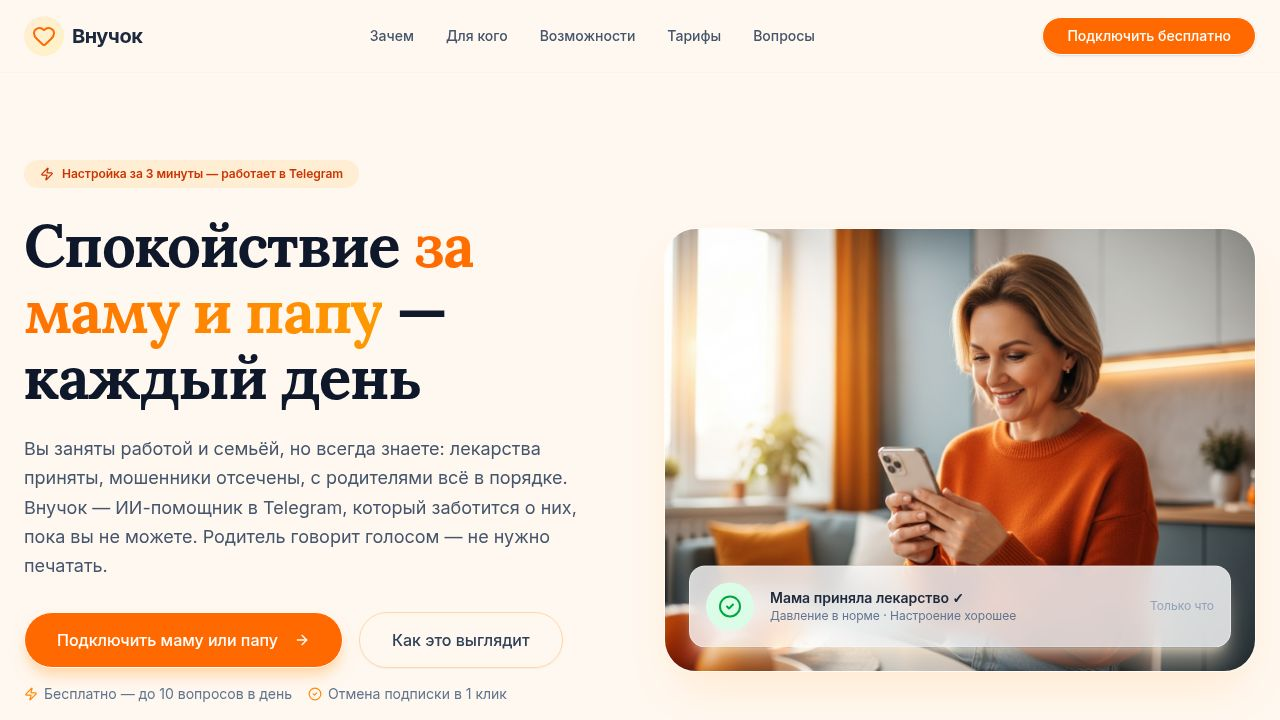
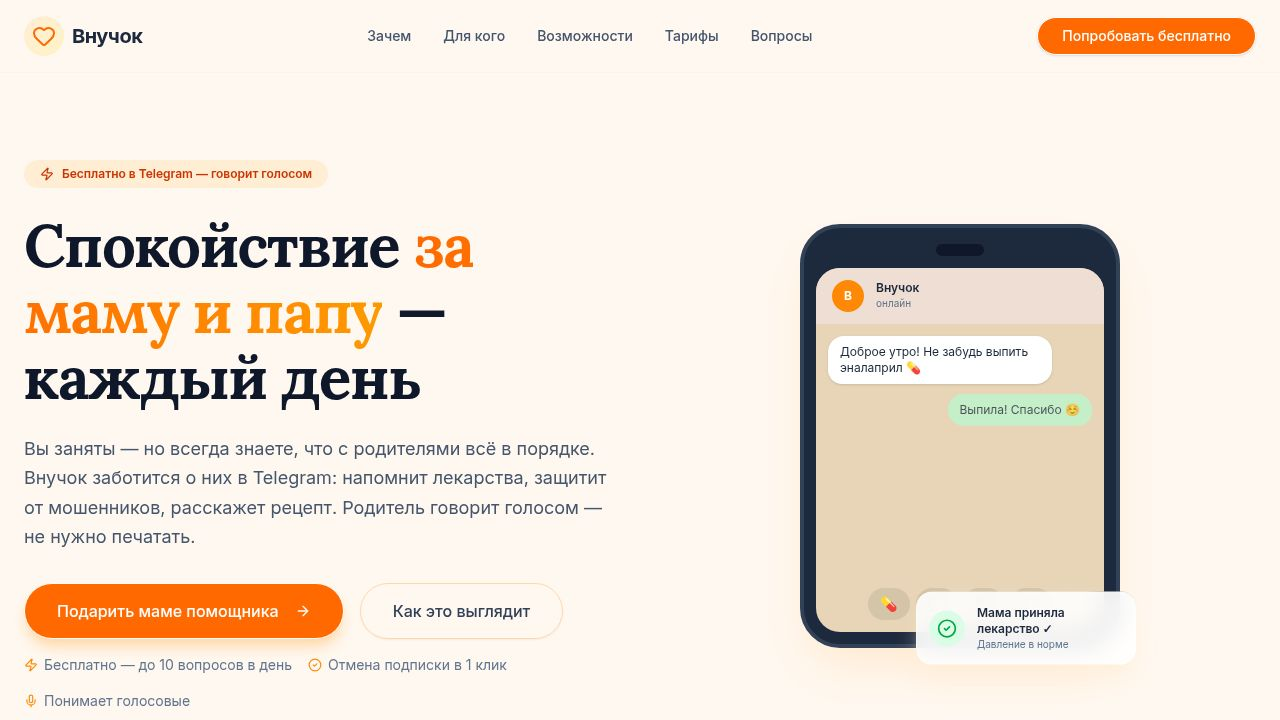
Add animated chat messages and social proof section to the landing page
Update client/src/pages/LandingC.tsx to include a staggered animation for chat messages and a new social proof section with family and message counts.

Replit-Commit-Author: Agent
Replit-Commit-Session-Id: 0a2be000-5f59-453b-a31a-cd9382a1d0eb
Replit-Commit-Checkpoint-Type: full_checkpoint
Replit-Commit-Event-Id: 0ae95760-b883-4407-8fa6-3ca411140092
Replit-Commit-Screenshot-Url: https://storage.googleapis.com/screenshot-production-us-central1/8693c438-d383-41e3-9a22-df06b7f15c39/0a2be000-5f59-453b-a31a-cd9382a1d0eb/dirBPPq
Replit-Helium-Checkpoint-Created: true

diff --git a/client/src/pages/LandingC.tsx b/client/src/pages/LandingC.tsx
@@ -172,31 +172,19 @@ export default function LandingC() {
                       </div>
 
                       <div className="space-y-2 p-3 min-h-[200px]">
-                        <div className="flex justify-start">
-                          <div className="bg-white rounded-2xl rounded-bl-md px-3 py-2 text-xs text-slate-800 max-w-[85%] shadow-sm">
-                            Доброе утро! Не забудь выпить эналаприл 💊
+                        {[
+                          { side: "left", text: "Доброе утро! Не забудь выпить эналаприл 💊", delay: "0ms" },
+                          { side: "right", text: "Выпила! Спасибо ☺", delay: "600ms" },
+                          { side: "left", text: "Умница! А давление мерила сегодня?", delay: "1200ms" },
+                          { side: "right", text: "🎤 «Сто двадцать на восемьдесят»", delay: "1800ms" },
+                          { side: "left", text: "120/80 — идеально! Записала ✓", delay: "2400ms" },
+                        ].map((msg, i) => (
+                          <div key={i} className={`flex ${msg.side === "right" ? "justify-end" : "justify-start"} animate-in fade-in slide-in-from-bottom-2 duration-500`} style={{ animationDelay: msg.delay, animationFillMode: "backwards" }}>
+                            <div className={`rounded-2xl px-3 py-2 text-xs text-slate-800 max-w-[85%] ${msg.side === "left" ? "bg-white rounded-bl-md shadow-sm" : "bg-green-200 rounded-br-md"}`}>
+                              {msg.text}
+                            </div>
                           </div>
-                        </div>
-                        <div className="flex justify-end">
-                          <div className="bg-green-200 rounded-2xl rounded-br-md px-3 py-2 text-xs text-slate-800 max-w-[85%]">
-                            Выпила! Спасибо ☺
-                          </div>
-                        </div>
-                        <div className="flex justify-start">
-                          <div className="bg-white rounded-2xl rounded-bl-md px-3 py-2 text-xs text-slate-800 max-w-[85%] shadow-sm">
-                            Умница! А давление мерила сегодня?
-                          </div>
-                        </div>
-                        <div className="flex justify-end">
-                          <div className="bg-green-200 rounded-2xl rounded-br-md px-3 py-2 text-xs text-slate-800 max-w-[85%]">
-                            🎤 «Сто двадцать на восемьдесят»
-                          </div>
-                        </div>
-                        <div className="flex justify-start">
-                          <div className="bg-white rounded-2xl rounded-bl-md px-3 py-2 text-xs text-slate-800 max-w-[85%] shadow-sm">
-                            120/80 — идеально! Записала ✓
-                          </div>
-                        </div>
+                        ))}
                       </div>
 
                       <div className="px-3 pb-3">
@@ -223,6 +211,25 @@ export default function LandingC() {
                     </div>
                   </div>
                 </div>
+              </div>
+            </div>
+          </div>
+        </section>
+
+        <section className="py-8 bg-white border-b border-orange-50">
+          <div className="container mx-auto px-6">
+            <div className="grid grid-cols-3 gap-6 max-w-3xl mx-auto text-center">
+              <div data-testid="social-proof-families">
+                <p className="text-2xl md:text-3xl font-bold text-orange-500">1 200+</p>
+                <p className="text-xs md:text-sm text-slate-500 mt-1">семей подключили</p>
+              </div>
+              <div data-testid="social-proof-messages">
+                <p className="text-2xl md:text-3xl font-bold text-orange-500">15 000+</p>
+                <p className="text-xs md:text-sm text-slate-500 mt-1">сообщений в день</p>
+              </div>
+              <div data-testid="social-proof-meds">
+                <p className="text-2xl md:text-3xl font-bold text-orange-500">98%</p>
+                <p className="text-xs md:text-sm text-slate-500 mt-1">лекарств напомнены вовремя</p>
               </div>
             </div>
           </div>
@@ -261,9 +268,10 @@ export default function LandingC() {
             </div>
 
             <div className="max-w-2xl mx-auto mt-12 text-center">
-              <div className="bg-orange-50 rounded-2xl p-6 border border-orange-100">
-                <p className="text-slate-700 text-base leading-relaxed italic">
-                  «Вы открываете кабинет утром, видите <span className="font-semibold text-green-600">«Всё хорошо»</span> — и спокойно идёте на работу. А вечером мама сама расскажет, какой пирог испекла.»
+              <div className="bg-orange-50 rounded-2xl p-6 border border-orange-100 relative">
+                <Quote className="w-8 h-8 text-orange-200 absolute top-4 left-4" />
+                <p className="text-slate-700 text-base leading-relaxed italic pl-8">
+                  Вы открываете кабинет утром, видите <span className="font-semibold text-green-600">«Всё хорошо»</span> — и спокойно идёте на работу. А вечером мама сама расскажет, какой пирог испекла.
                 </p>
               </div>
             </div>
@@ -371,11 +379,8 @@ export default function LandingC() {
               </div>
 
               <div className="mx-auto" style={{ maxWidth: "380px" }}>
-                <div className="bg-slate-800 rounded-[2.5rem] p-3 shadow-xl border-4 border-slate-700">
-                  <div className="bg-slate-800 rounded-full w-24 h-5 mx-auto mb-2 flex items-center justify-center">
-                    <div className="w-12 h-3 bg-slate-900 rounded-full" />
-                  </div>
-                  <div className="bg-[#E8D5B7] rounded-[1.5rem] overflow-hidden">
+                <div className="bg-white rounded-[2rem] p-1 shadow-2xl shadow-slate-200/80 border border-slate-200">
+                  <div className="bg-[#E8D5B7] rounded-[1.75rem] overflow-hidden">
                     <div className="bg-[#EFDED3] px-4 py-3 flex items-center gap-3">
                       <div className="w-9 h-9 rounded-full bg-orange-400 flex items-center justify-center text-white font-bold text-sm">В</div>
                       <div>
@@ -619,11 +624,11 @@ export default function LandingC() {
 
             <div className="grid md:grid-cols-2 lg:grid-cols-4 gap-6 max-w-6xl mx-auto">
               <TestimonialCard
-                name="Марина Соколова"
-                age={38}
-                city="Москва"
-                parentType="Мама, 56 лет"
-                quote="Мама каждый день спрашивает у Внучка рецепты и куда сходить на выходных. Говорит — как подружка, которая всё знает и никогда не занята."
+                name="Кирилл Новиков"
+                age={27}
+                city="Санкт-Петербург"
+                parentType="Мама, 58 лет, в Самаре"
+                quote="Переехал в Питер, мама осталась одна в Самаре. Раньше звонил из чувства долга и всегда торопился. Теперь вижу в кабинете, что у неё всё ок — и звоню просто поболтать."
                 rating={5}
               />
               <TestimonialCard
@@ -720,7 +725,8 @@ export default function LandingC() {
               />
             </div>
 
-            <div className="max-w-4xl mx-auto mt-12 overflow-x-auto">
+            <div className="max-w-4xl mx-auto mt-12 relative">
+              <div className="overflow-x-auto">
               <table className="w-full text-sm border-collapse bg-white rounded-2xl overflow-hidden shadow-sm border border-orange-100">
                 <thead>
                   <tr className="bg-orange-50">
@@ -743,6 +749,8 @@ export default function LandingC() {
                   ))}
                 </tbody>
               </table>
+              </div>
+              <div className="absolute top-0 right-0 bottom-0 w-8 bg-gradient-to-l from-[#FFF8F0] to-transparent pointer-events-none md:hidden" />
             </div>
 
             <p className="text-center text-sm text-slate-500 mt-8" data-testid="text-risk-reversal-c">
